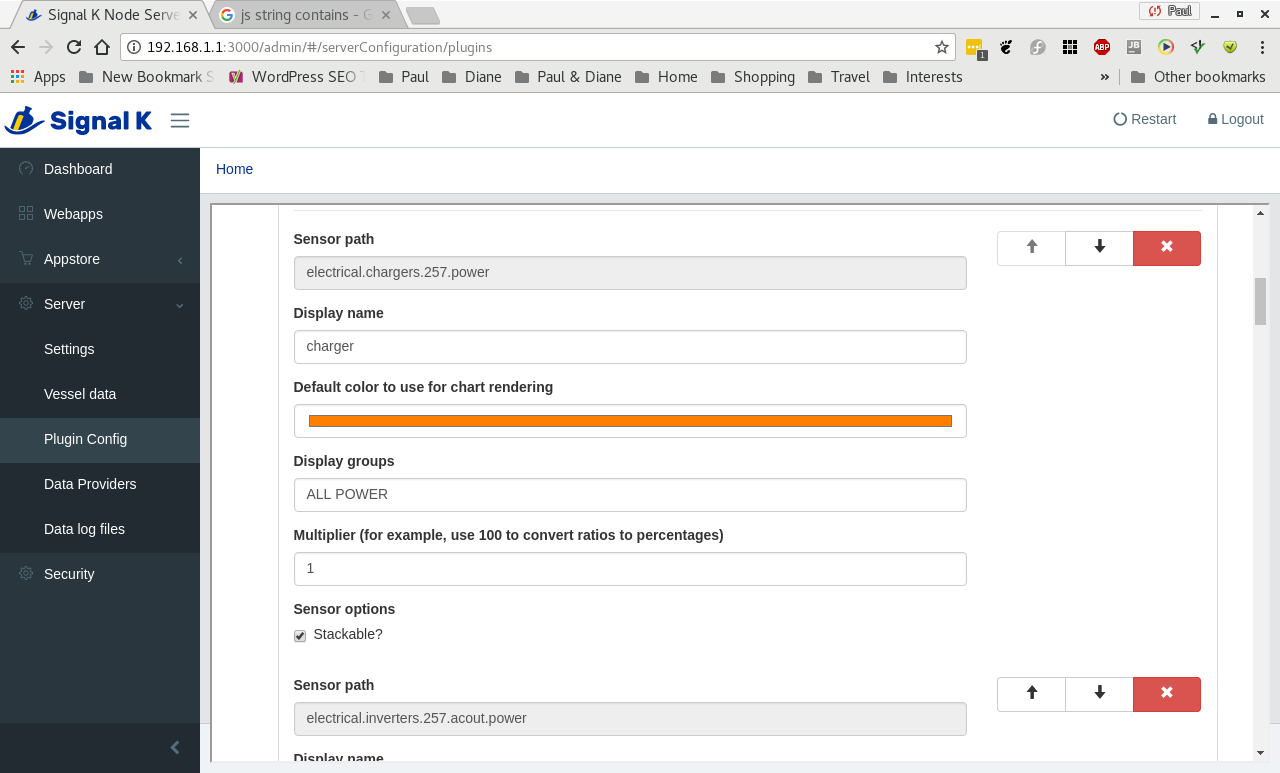
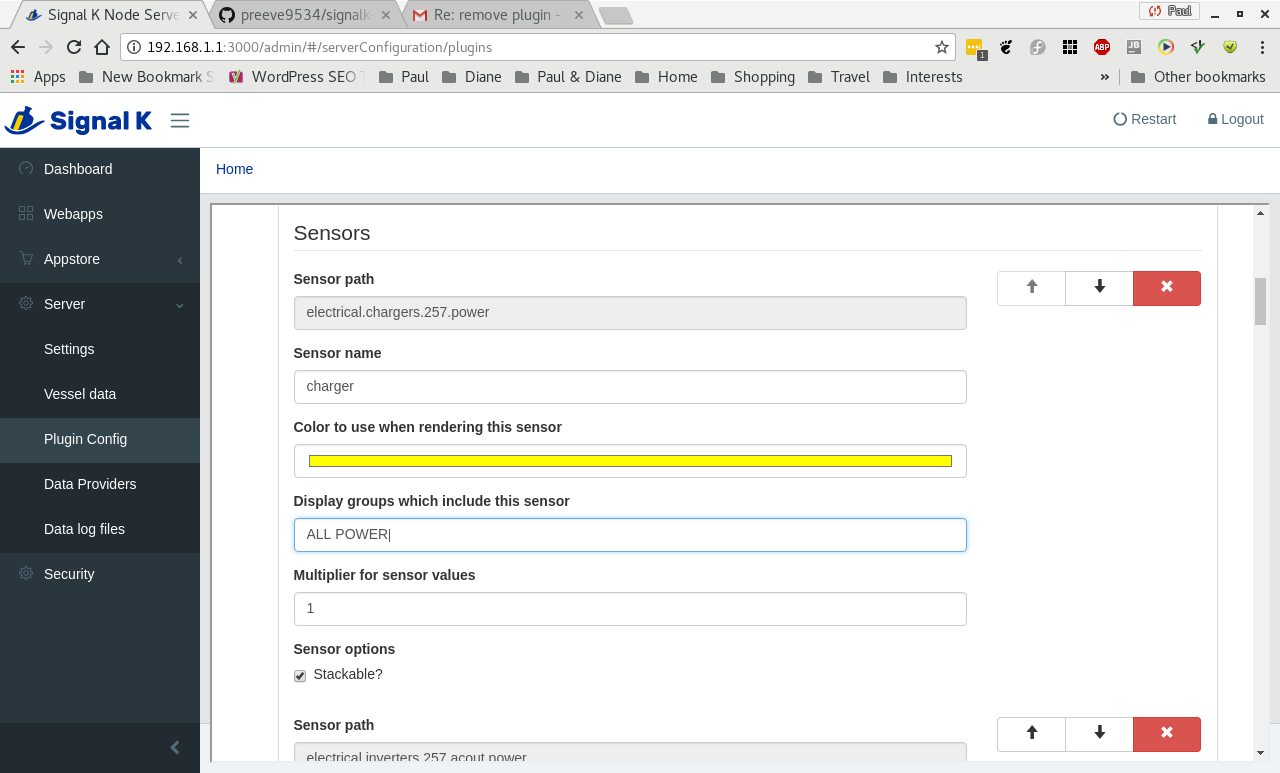
Tidy up sensor configuration

diff --git a/index.js b/index.js
@@ -118,22 +118,22 @@ module.exports = function(app) {
 								default: ""
 							},
 							displayname: {
-								title: "Display name",
+								title: "Sensor name",
 								type: "string",
 								default: DEFAULT_SENSORDISPLAYNAME
 							},
 							displaycolor: {
-								title: "Default color to use for chart rendering",
+								title: "Color to use when rendering this sensor",
 								type: "string",
 								default: DEFAULT_SENSORDISPLAYCOLOR
 							},
 							displaygroups: {
-								title: "Display groups",
+								title: "Display groups which include this sensor",
 								type: "string",
 								default: DEFAULT_SENSORDISPLAYGROUPS
 							},
                             multiplier: {
-                                title: "Multiplier (for example, use 100 to convert ratios to percentages)",
+                                title: "Multiplier for sensor values",
                                 type: "number",
                                 default: DEFAULT_SENSORMULTIPLIER
                             },
